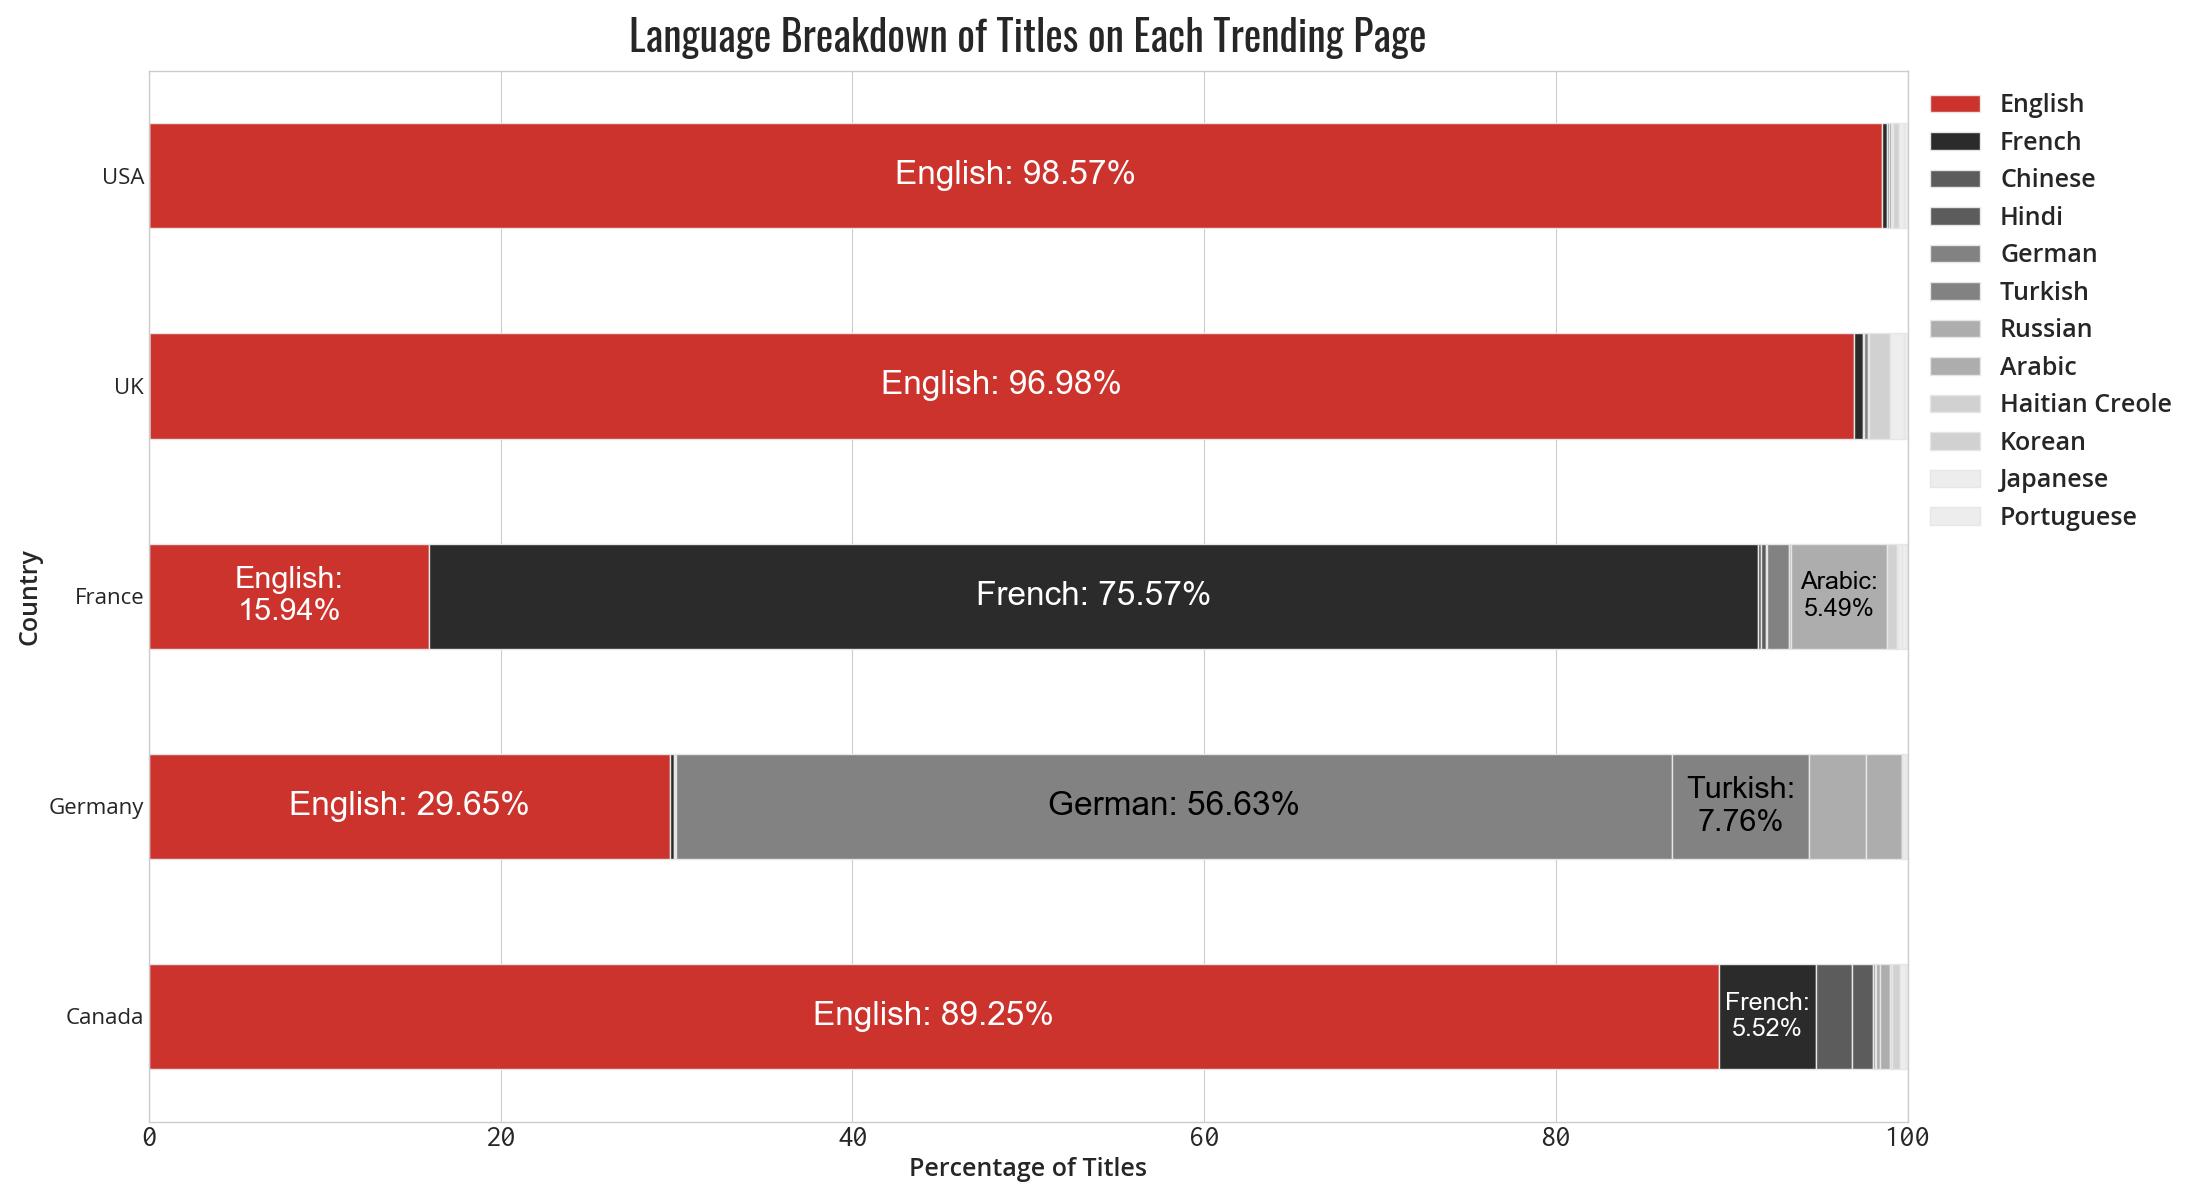
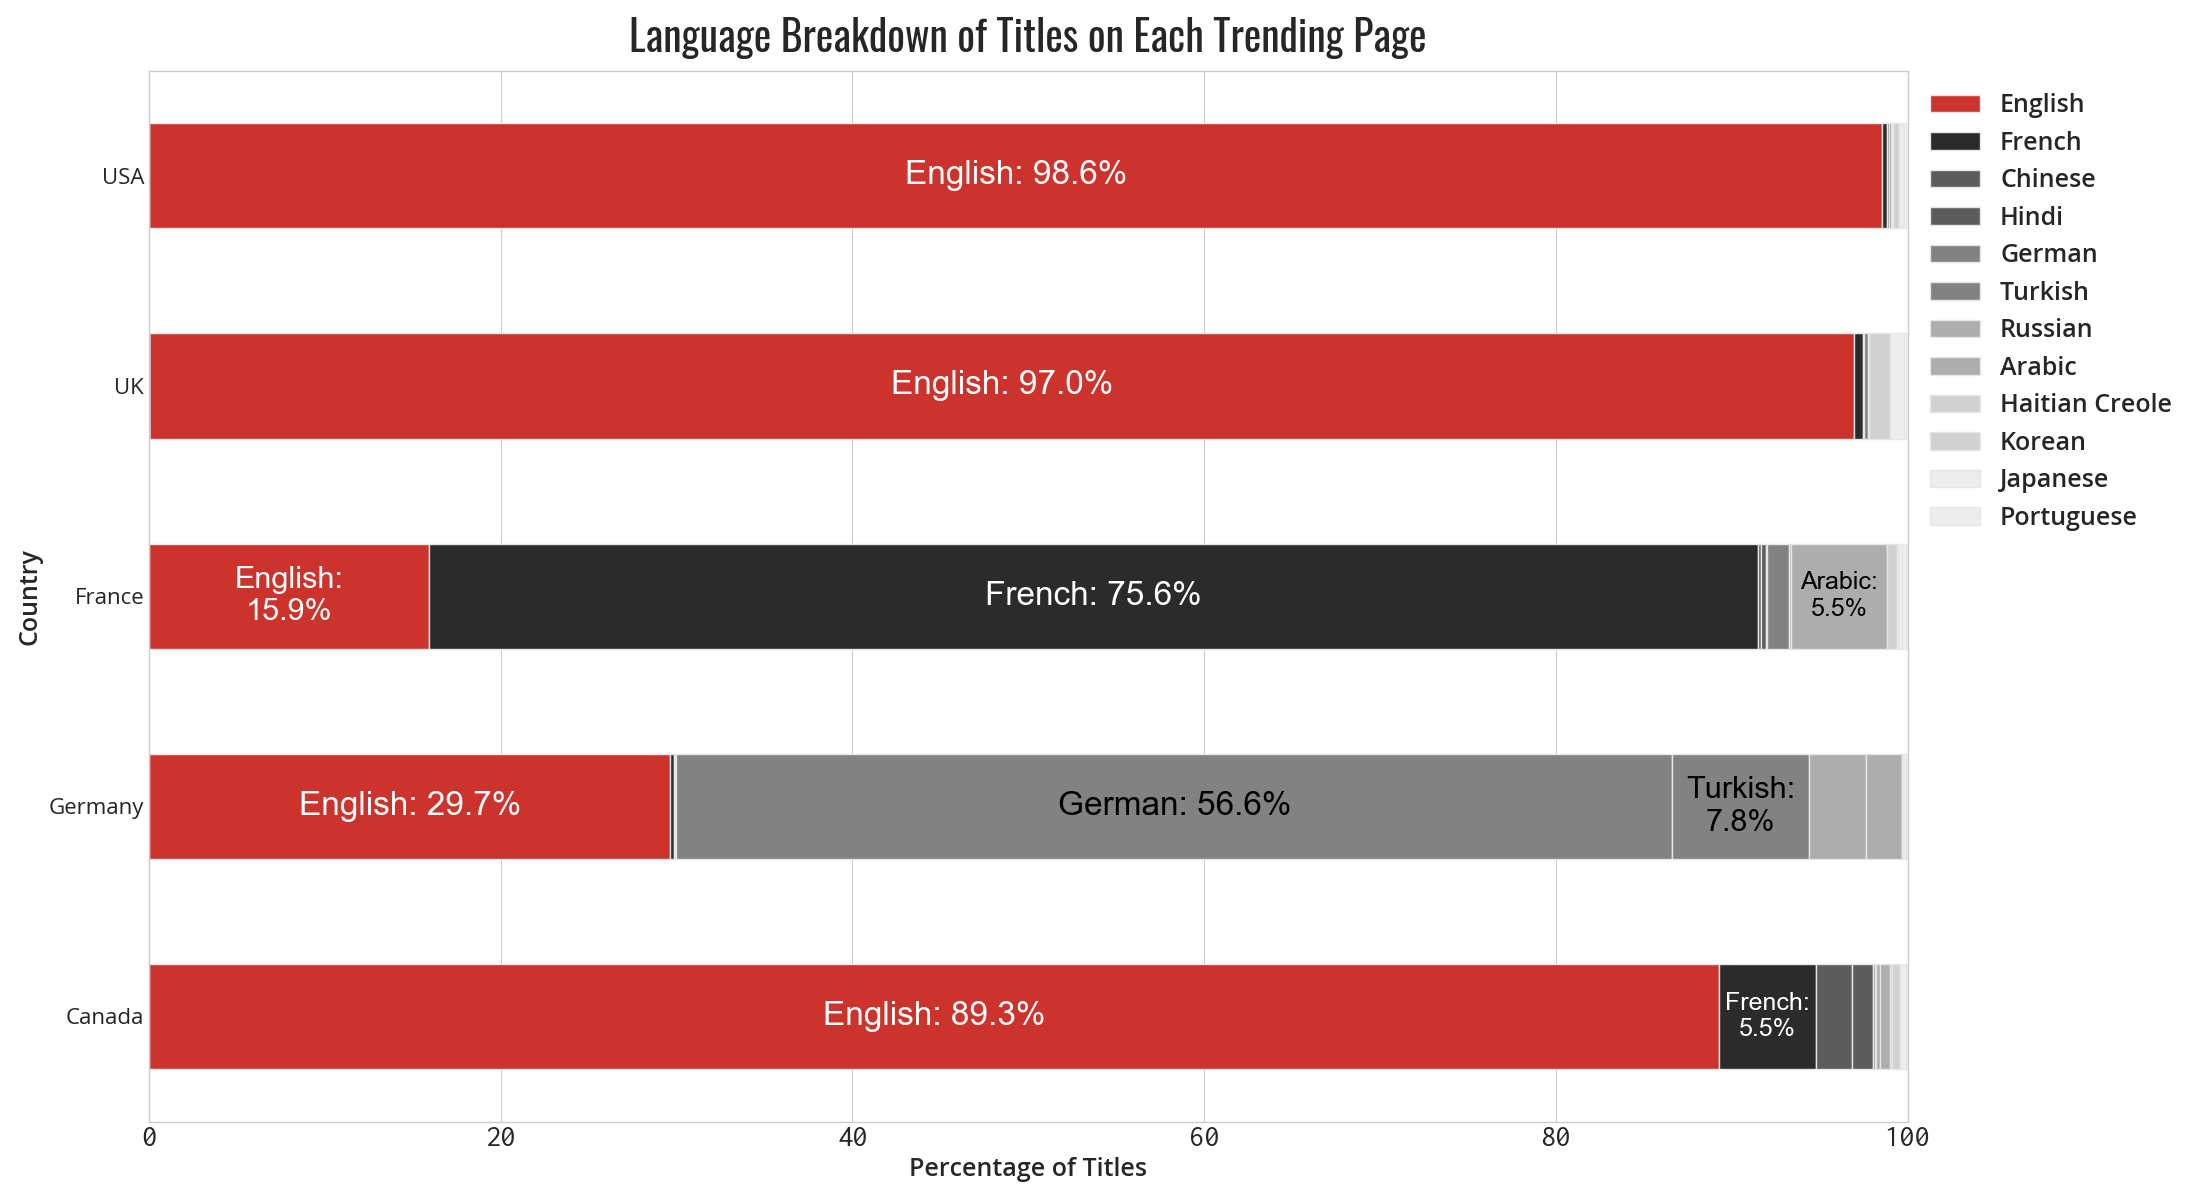
cool hover effect boii

diff --git a/youtube-datastory/index.html b/youtube-datastory/index.html
@@ -346,11 +346,12 @@
                 languages presented on each bar.
             </p>
 
-            <figure class="full-width">
-                <img src="./images/LanguageBreakdown.png" class="img-fluid"/>
+            <figure class="full-width" id="cf">
+                <img src="./images/LanguageBreakdown_English.png" class="img-fluid bottom" />
+                <img src="./images/LanguageBreakdown.png" class="img-fluid top"/>
+
                 <figcaption class="figure-caption">Figure 4</figcaption>
             </figure>
-
             <p>
                 In both Table 1 and Figure 4, we can see that <span class='number'>3</span> out of <span class='number'>5</span>
                 of the trending pages in my dataset had a majority of <span class='emph'>English</span> videos.
@@ -1011,7 +1012,7 @@
                 was, by far, the most common category. This made sense to me, since it YouTube would want to
                 push breaking news to the trending page <i>before</i> it gets views; once a news video is seen
                 by enough people, chances are that specific story is already out-of-date. So, making news videos trend regardless of
-                views makes sense. However, as soon as changed this number and looked at the <span class='number'>1,000</span> videos instead, this changed:
+                views makes sense. However, when I changed this number and looked at the <span class='number'>1,000</span> videos instead, this changed:
                 <span class='emph'>People & Blogs</span> now had the most unviewed trending videos.
             </p>
 

diff --git a/youtube-datastory/css/stylesheet.css b/youtube-datastory/css/stylesheet.css
@@ -94,6 +94,35 @@ a, a:hover {
   margin-right: -23.33%;
 }
 
+#cf {
+  position:relative;
+  display: block;
+}
+
+#cf img.top {
+  display: block;
+  position:relative;
+  left:0;
+  -webkit-transition: opacity 1s ease-in-out;
+  -moz-transition: opacity 1s ease-in-out;
+  -o-transition: opacity 1s ease-in-out;
+  transition: opacity 1s ease-in-out;
+}
+
+#cf img.bottom {
+  display: block;
+  position:absolute;
+  left:0;
+  -webkit-transition: opacity 1s ease-in-out;
+  -moz-transition: opacity 1s ease-in-out;
+  -o-transition: opacity 1s ease-in-out;
+  transition: opacity 1s ease-in-out;
+}
+
+#cf img.top:hover {
+  opacity:0;
+}
+
 figcaption {
 	text-align: center;
 }
